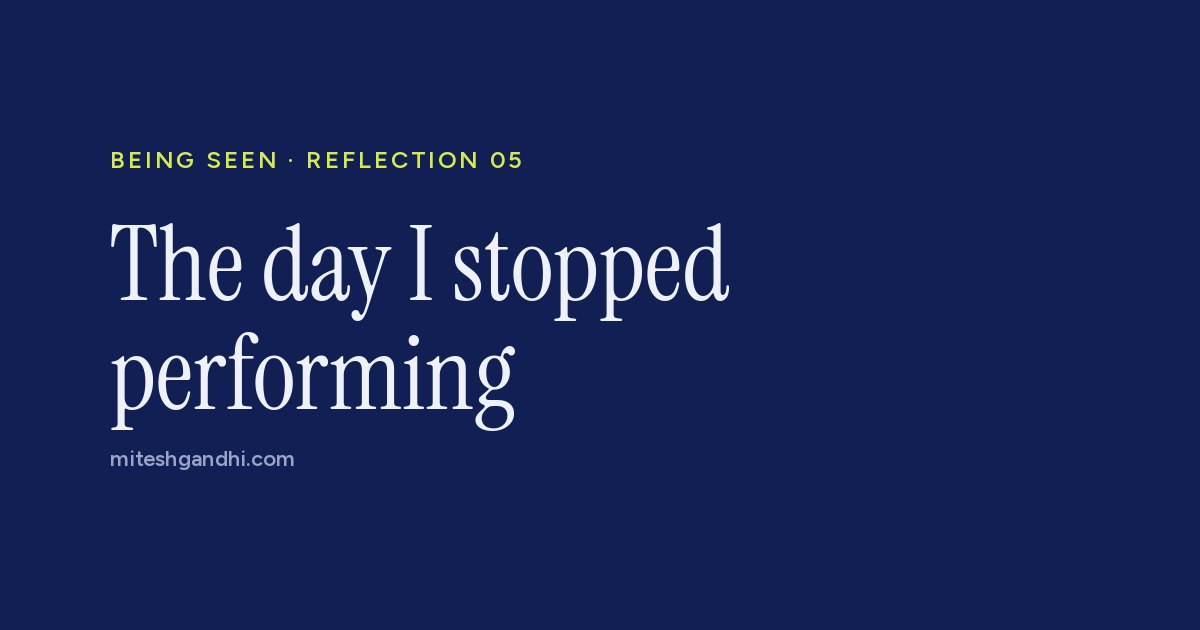
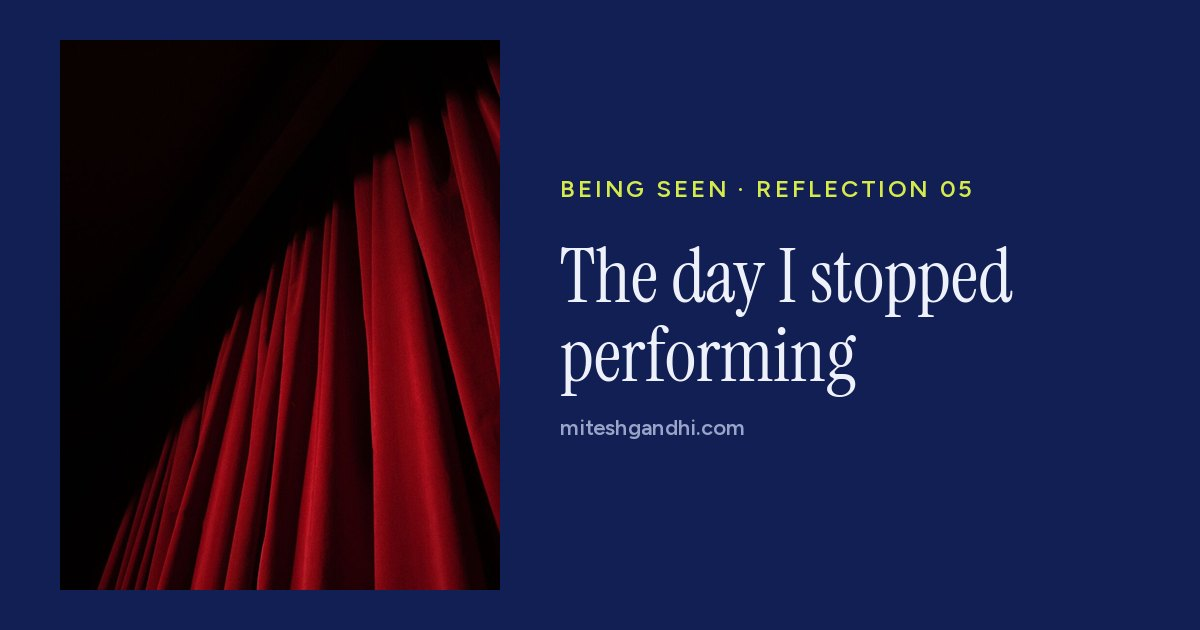
Add a closed-curtain photo to The day I stopped performing
Pexels photo 4722571, cropped to 900x1125; its preview image now uses
the photo instead of a title card.

Claude-Session: https://claude.ai/code/session_01Wms8gBfqDiWxmsZ3jGdbEd

diff --git a/reflection-stopped-performing.html b/reflection-stopped-performing.html
@@ -113,6 +113,8 @@
 </header>
 
 <article>
+  <div class="photo"><img src="/closed-curtain.jpg" alt="A closed red velvet theatre curtain in low light" width="900" height="1125"></div>
+  <p style="font-size:0.95rem;font-style:italic;color:var(--cobalt);margin-top:-1.25rem;">After the performance. Photo: Pexels.</p>
   <p>If you've read <a href="/story.html">my story</a>, you'll know about the vitiligo, so I won't retell it here.</p>
   <p>But there was a turning point. I simply got tired of managing how everyone saw me. The adjusting, the covering, the careful angles. It was exhausting.</p>
   <p>So I stopped.</p>

diff --git a/scripts/og_images.py b/scripts/og_images.py
@@ -40,7 +40,6 @@ WIDE = 1.4  # photos at least this wide fill the frame; narrower ones are shown 
 # Page slug -> photo to use instead of the page's first photo (None = title card)
 SOURCES = {
     "wanted-to-disappear": "mitesh-age4.jpg",
-    "stopped-performing": None,
 }
 NEVER = {"mitesh.jpg"}
 
